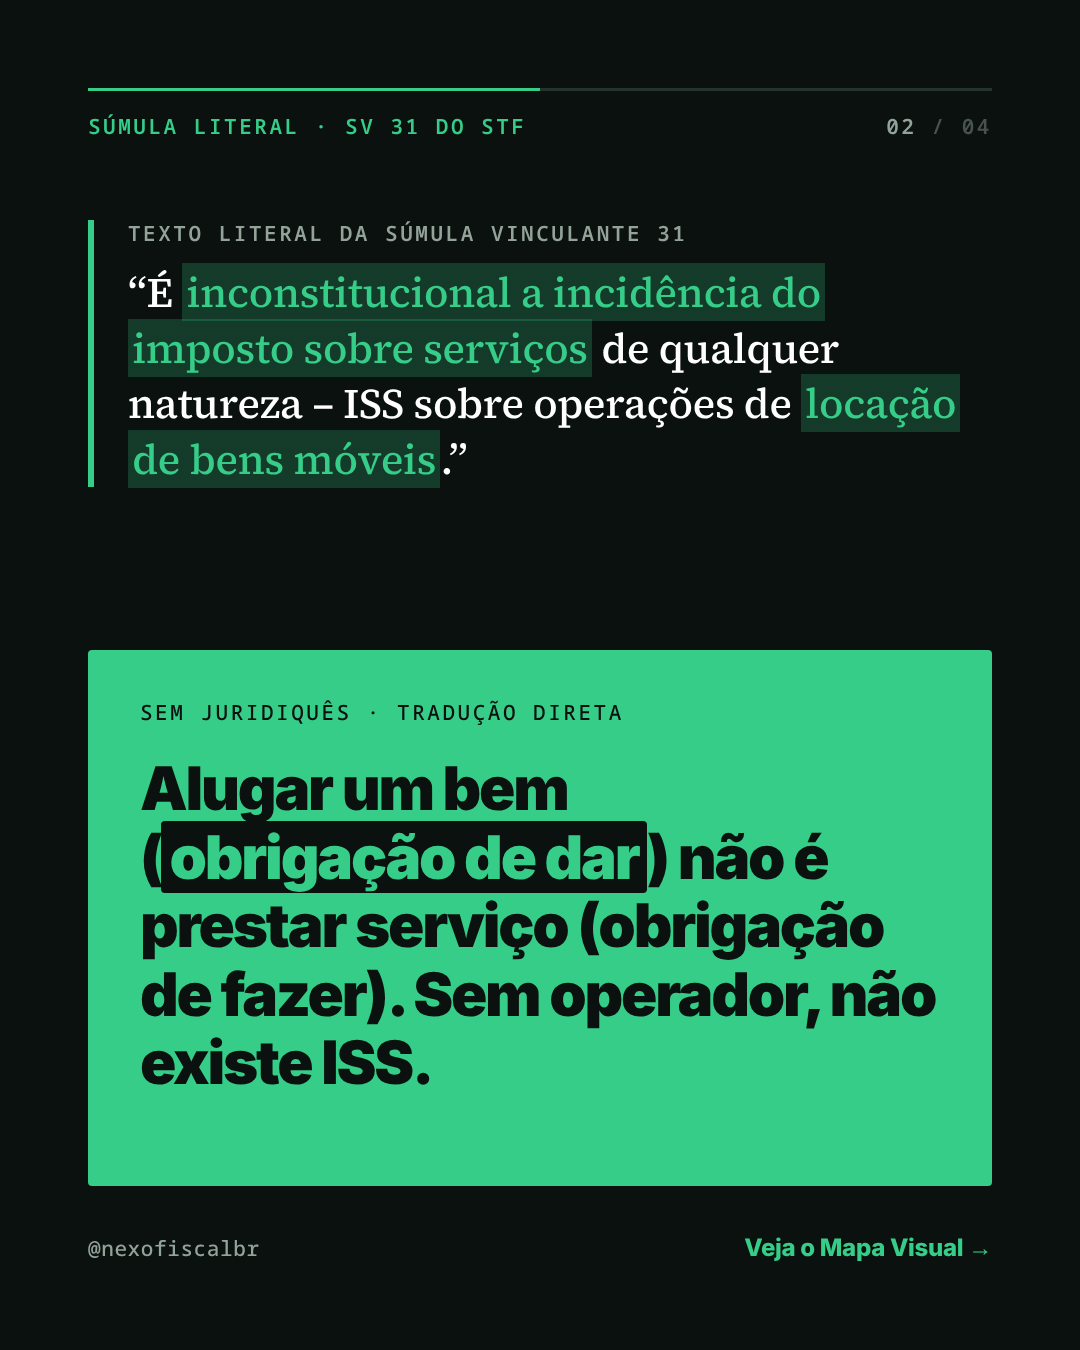
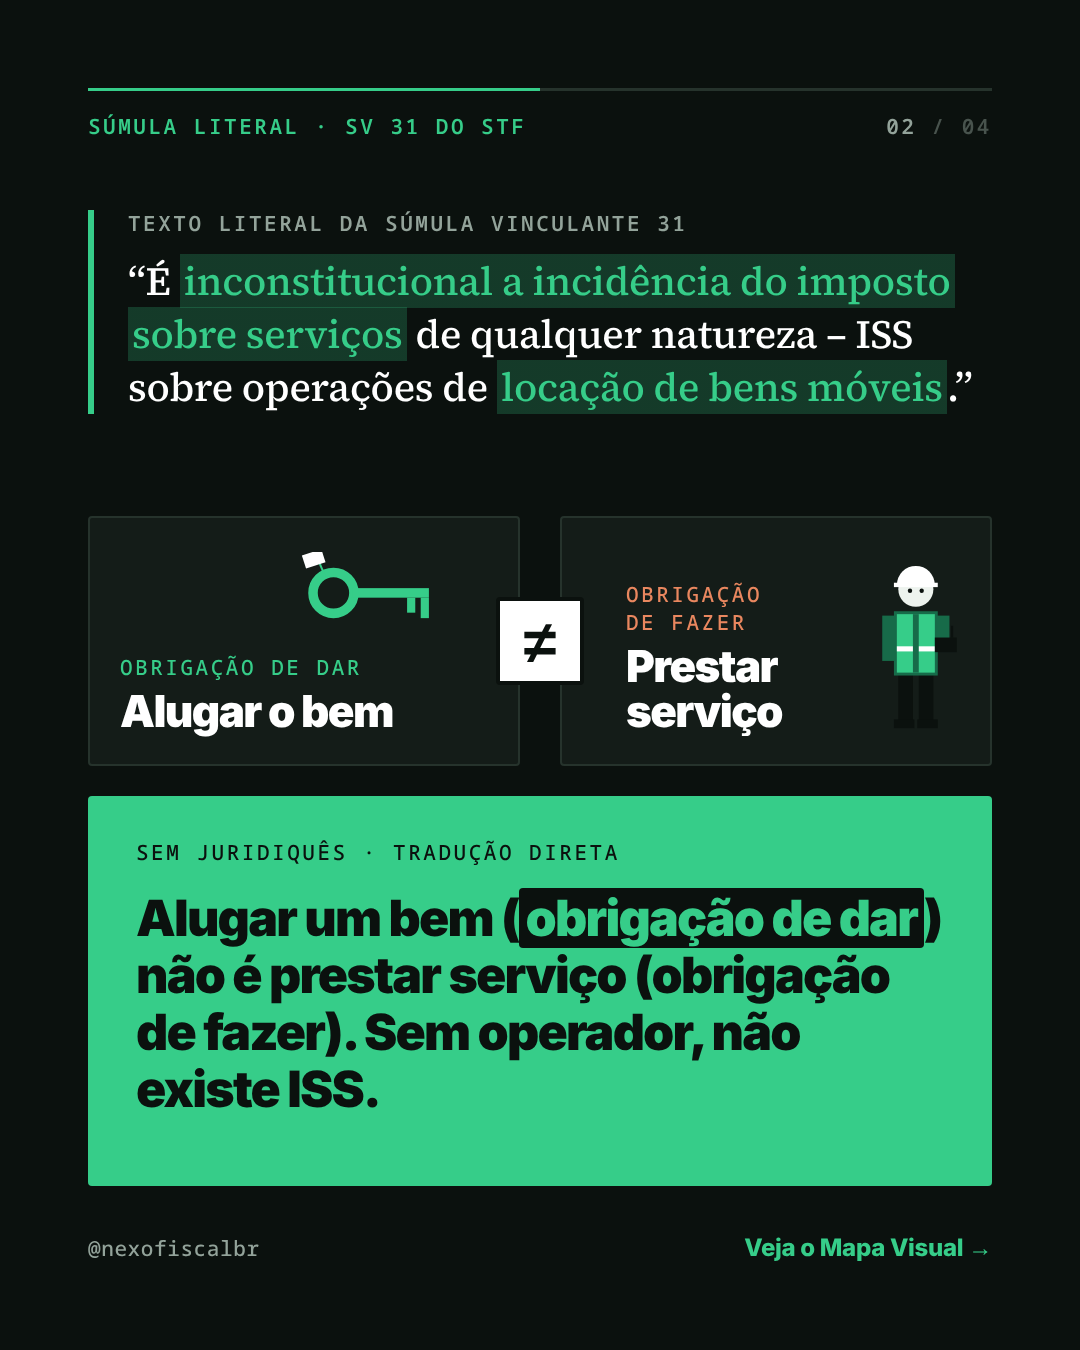
feat(feed): versão final do carrossel SV 31 (direção C) com ilustrações
Guindaste mais detalhado, operador de pé no caso com operador e chave × operador no slide da súmula.

Claude-Session: https://claude.ai/code/session_01Y8eT49Yr3V9k4wYgjhULiZ

Changed region(s): [[0.0611, 0.4044, 0.9167, 0.84], [0.1222, 0.1556, 0.9167, 0.3733], [0.0611, 0.3111, 0.0917, 0.3733]]

diff --git a/src/ds/posts/Sv31Mockups.tsx b/src/ds/posts/Sv31Mockups.tsx
@@ -103,37 +103,91 @@ const Pages: React.FC<{ x: number; y: number; scale?: number; line?: string }> =
 };
 
 type CraneTone = { body: string; boom: string; dark: string; glass: string; operator?: boolean };
-const Crane: React.FC<{ width: number; t: CraneTone }> = ({ width, t }) => (
+
+/** Guindaste sobre caminhão, em blocos planos. `operator` põe alguém na cabine. */
+const Crane: React.FC<{ width: number; t: CraneTone; ground?: boolean }> = ({ width, t, ground }) => (
   <svg width={width} height={(width * 360) / 520} viewBox="0 0 520 360" style={{ display: 'block', overflow: 'visible' }}>
-    <rect x={70} y={276} width={14} height={50} fill={t.dark} />
-    <rect x={56} y={322} width={42} height={10} fill={t.dark} />
-    <rect x={430} y={276} width={14} height={50} fill={t.dark} />
-    <rect x={416} y={322} width={42} height={10} fill={t.dark} />
-    <rect x={40} y={232} width={440} height={50} fill={t.body} />
-    <rect x={376} y={160} width={104} height={74} fill={t.body} />
-    <rect x={392} y={172} width={74} height={42} fill={t.glass} />
+    {ground ? <rect x={-30} y={331} width={580} height={5} fill={t.dark} /> : null}
+    {[70, 430].map((x) => (
+      <g key={x}>
+        <rect x={x} y={272} width={14} height={52} fill={t.dark} />
+        <rect x={x - 14} y={320} width={42} height={11} fill={t.dark} />
+      </g>
+    ))}
+    <rect x={40} y={232} width={440} height={44} fill={t.body} />
+    <rect x={40} y={270} width={440} height={10} fill={t.dark} />
+    <rect x={470} y={250} width={18} height={26} fill={t.dark} />
+    <rect x={376} y={156} width={104} height={78} fill={t.body} />
+    <rect x={372} y={150} width={112} height={10} fill={t.dark} />
+    <rect x={418} y={138} width={22} height={12} fill={C.alertSoft} />
+    <polygon points="392,170 462,170 470,212 392,212" fill={t.glass} />
     {t.operator ? (
       <g>
-        <rect x={418} y={196} width={26} height={18} fill={C.green} />
-        <circle cx={431} cy={186} r={11} fill={C.surface} />
-        <path d="M418 184 a13 13 0 0 1 26 0 Z" fill={C.mint} />
+        <rect x={416} y={198} width={28} height={14} fill={C.green} />
+        <circle cx={430} cy={188} r={11} fill={C.surface} />
+        <path d="M417 186 a13 13 0 0 1 26 0 Z" fill={C.white} />
+        <rect x={414} y={184} width={32} height={4} fill={C.white} />
       </g>
     ) : null}
-    <rect x={120} y={198} width={112} height={34} fill={t.body} />
+    <rect x={392} y={216} width={3} height={18} fill={t.dark} />
+    <rect x={484} y={178} width={7} height={26} fill={t.dark} />
+    <rect x={96} y={188} width={30} height={44} fill={t.dark} />
+    <rect x={118} y={196} width={116} height={36} fill={t.body} />
+    <rect x={118} y={224} width={116} height={6} fill={t.dark} fillOpacity={0.3} />
     <g transform="translate(176 208) rotate(-32)">
-      <rect x={0} y={-15} width={384} height={30} fill={t.boom} />
-      {[40, 100, 160, 220, 280, 340].map((x) => (
-        <path key={x} d={`M${x} -15 l24 30`} stroke={t.dark} strokeOpacity={0.35} strokeWidth={4} />
+      <rect x={0} y={-16} width={230} height={32} fill={t.boom} />
+      <rect x={226} y={-12} width={158} height={24} fill={t.boom} />
+      <rect x={226} y={-16} width={4} height={32} fill={t.dark} fillOpacity={0.5} />
+      {[30, 80, 130, 180, 250, 300, 350].map((x) => (
+        <path key={x} d={`M${x} -12 l22 24`} stroke={t.dark} strokeOpacity={0.35} strokeWidth={4} />
       ))}
     </g>
-    <line x1={494} y1={8} x2={494} y2={120} stroke={t.dark} strokeWidth={4} />
-    <rect x={484} y={120} width={20} height={24} fill={t.dark} />
+    <circle cx={176} cy={208} r={10} fill={t.dark} />
+    <line x1={494} y1={8} x2={494} y2={118} stroke={t.dark} strokeWidth={4} />
+    <rect x={483} y={116} width={22} height={22} fill={t.dark} />
+    <path d="M494 138 v12 a9 9 0 1 1 -9 9" fill="none" stroke={t.dark} strokeWidth={5} />
     {[96, 168, 360, 432].map((cx) => (
       <g key={cx}>
         <circle cx={cx} cy={300} r={30} fill={t.dark} />
-        <circle cx={cx} cy={300} r={11} fill={t.glass} />
+        <circle cx={cx} cy={300} r={13} fill={t.glass} />
+        <circle cx={cx} cy={300} r={4} fill={t.dark} />
       </g>
     ))}
+  </svg>
+);
+
+/** Operador de pé, com capacete, colete e controle remoto. */
+const Operator: React.FC<{ height: number }> = ({ height }) => (
+  <svg width={(height * 120) / 260} height={height} viewBox="0 0 120 260" style={{ display: 'block', overflow: 'visible' }}>
+    <rect x={36} y={172} width={20} height={74} fill={C.ink} />
+    <rect x={64} y={172} width={20} height={74} fill={C.ink} />
+    <rect x={30} y={240} width={28} height={12} fill={C.ink} />
+    <rect x={62} y={240} width={28} height={12} fill={C.ink} />
+    <rect x={30} y={92} width={60} height={88} fill={C.green} />
+    <rect x={34} y={96} width={52} height={80} fill={C.mint} />
+    <rect x={34} y={140} width={52} height={7} fill={C.white} />
+    <rect x={56} y={96} width={8} height={80} fill={C.green} />
+    <rect x={14} y={98} width={18} height={62} fill={C.green} />
+    <rect x={88} y={98} width={18} height={44} fill={C.green} />
+    <rect x={86} y={128} width={30} height={20} fill={C.ink} />
+    <rect x={108} y={112} width={3} height={16} fill={C.ink} />
+    <circle cx={60} cy={62} r={24} fill={C.surface} />
+    <circle cx={52} cy={64} r={3} fill={C.ink} />
+    <circle cx={68} cy={64} r={3} fill={C.ink} />
+    <path d="M34 56 a26 26 0 0 1 52 0 Z" fill={C.white} />
+    <rect x={30} y={53} width={60} height={6} fill={C.white} />
+  </svg>
+);
+
+/** Chave com etiqueta: entregar o bem (obrigação de dar). */
+const KeyArt: React.FC<{ width: number; color: string; tag: string }> = ({ width, color, tag }) => (
+  <svg width={width} height={(width * 120) / 220} viewBox="0 0 220 120" style={{ display: 'block' }}>
+    <circle cx={52} cy={60} r={30} fill="none" stroke={color} strokeWidth={14} />
+    <rect x={80} y={53} width={112} height={14} fill={color} />
+    <rect x={160} y={67} width={12} height={22} fill={color} />
+    <rect x={180} y={67} width={12} height={30} fill={color} />
+    <line x1={40} y1={36} x2={28} y2={8} stroke={color} strokeWidth={3} />
+    <rect x={8} y={0} width={30} height={20} fill={tag} transform="rotate(-18 23 10)" />
   </svg>
 );
 
@@ -441,7 +495,7 @@ const C1: React.FC = () => {
         </Box>
         <Box x={330} y={640} w={520} h={300} style={{ background: C.green, borderRadius: 4 }} />
         <Box x={250} y={470}>
-          <Crane width={600} t={CRANE_LIGHT} />
+          <Crane width={600} ground t={CRANE_LIGHT} />
         </Box>
       </Block>
     </Frame>
@@ -450,17 +504,36 @@ const C1: React.FC = () => {
 
 const C2: React.FC = () => (
   <Frame mode="dark" label={P.law.label} n={2} action={P.law.action}>
-    <Box x={M} y={220} w={W}>
-      <Law source={P.law.source} size={42}>
+    <Box x={M} y={210} w={W}>
+      <Law source={P.law.source} size={40}>
         <LawText />
       </Law>
     </Box>
-    <Block x={M} y={650} w={W} h={536} bg={C.mint} style={{ padding: '48px 52px' }}>
+    <Block x={M} y={516} w={432} h={250} bg={C.inkSoft} style={{ border: `2px solid ${C.lineDark}`, padding: '30px 64px 30px 30px', display: 'flex', justifyContent: 'space-between', alignItems: 'flex-end' }}>
+      <div>
+        <Mono color={C.mint}>{P.law.give.k}</Mono>
+        <div style={{ fontFamily: FONT.sans, fontWeight: 900, fontSize: 44, lineHeight: 1.02, letterSpacing: -1.6, color: C.white, marginTop: 8 }}>{P.law.give.v}</div>
+      </div>
+      <div style={{ position: 'absolute', right: 70, top: 34 }}>
+        <KeyArt width={150} color={C.mint} tag={C.white} />
+      </div>
+    </Block>
+    <Block x={560} y={516} w={432} h={250} bg={C.inkSoft} style={{ border: `2px solid ${C.lineDark}`, padding: '30px 30px 30px 64px', display: 'flex', justifyContent: 'space-between', alignItems: 'flex-end' }}>
+      <div>
+        <Mono color={C.alertSoft}>{P.law.make.k}</Mono>
+        <div style={{ fontFamily: FONT.sans, fontWeight: 900, fontSize: 44, lineHeight: 1.02, letterSpacing: -1.6, color: C.white, marginTop: 8 }}>{P.law.make.v}</div>
+      </div>
+      <Operator height={190} />
+    </Block>
+    <Box x={496} y={597} w={88} h={88} style={{ background: C.white, borderRadius: 4, border: `4px solid ${C.ink}`, display: 'flex', alignItems: 'center', justifyContent: 'center', fontFamily: FONT.sans, fontWeight: 900, fontSize: 60, color: C.ink }}>
+      ≠
+    </Box>
+    <Block x={M} y={796} w={W} h={390} bg={C.mint} style={{ padding: '42px 48px' }}>
       <Mono color={C.ink}>{SV31.plainLabel}</Mono>
-      <div style={{ fontFamily: FONT.sans, fontWeight: 900, fontSize: 60, lineHeight: 1.14, letterSpacing: -2.2, color: C.ink, marginTop: 28 }}>
+      <div style={{ fontFamily: FONT.sans, fontWeight: 900, fontSize: 50, lineHeight: 1.14, letterSpacing: -1.8, color: C.ink, marginTop: 24 }}>
         <Plain
           hl={
-            <Chip bg={C.ink} fg={C.mint} size={60}>
+            <Chip bg={C.ink} fg={C.mint} size={50}>
               {SV31.plain.hl}
             </Chip>
           }
@@ -486,8 +559,15 @@ const C3: React.FC = () => {
         bg={yes ? C.mint : C.inkSoft}
         style={{ border: yes ? undefined : `2px solid ${C.lineDark}`, padding: 34, display: 'flex', flexDirection: 'column', justifyContent: 'space-between' }}
       >
-        <div style={{ flex: 1, display: 'flex', alignItems: 'center' }}>
-          <Crane width={368} t={yes ? { body: C.paper, boom: C.white, dark: C.ink, glass: C.lineDark } : { body: C.mutedDark, boom: C.white, dark: C.ink, glass: C.lineDark, operator: true }} />
+        <div style={{ flex: 1, position: 'relative' }}>
+          <div style={{ position: 'absolute', left: -6, top: 30 }}>
+            <Crane width={330} ground t={yes ? { body: C.paper, boom: C.white, dark: C.ink, glass: C.lineDark } : { body: C.mutedDark, boom: C.white, dark: C.ink, glass: C.lineDark, operator: true }} />
+          </div>
+          {yes ? null : (
+            <div style={{ position: 'absolute', right: -4, top: 128 }}>
+              <Operator height={200} />
+            </div>
+          )}
         </div>
         <div>
           <Mono color={fg}>{s.kicker}</Mono>
@@ -514,7 +594,7 @@ const C3: React.FC = () => {
       </Box>
       {panel('left')}
       {panel('right')}
-      <Box x={496} y={566} w={88} h={88} style={{ background: C.white, borderRadius: 4, display: 'flex', alignItems: 'center', justifyContent: 'center', border: `4px solid ${C.ink}` }}>
+      <Box x={496} y={760} w={88} h={88} style={{ background: C.white, borderRadius: 4, display: 'flex', alignItems: 'center', justifyContent: 'center', border: `4px solid ${C.ink}` }}>
         <Mark2 kind="no" color={C.ink} size={56} />
       </Box>
     </Frame>

diff --git a/src/ds/copy.ts b/src/ds/copy.ts
@@ -388,7 +388,13 @@ export const SV31_POST = {
     q: 'ISS?',
     action: 'Veja a Súmula e o Mapa →',
   },
-  law: { label: 'Súmula literal · SV 31 do STF', source: 'Texto literal da Súmula Vinculante 31', action: 'Veja o Mapa Visual →' },
+  law: {
+    label: 'Súmula literal · SV 31 do STF',
+    source: 'Texto literal da Súmula Vinculante 31',
+    give: { k: 'Obrigação de dar', v: 'Alugar o bem' },
+    make: { k: 'Obrigação de\u00a0fazer', v: 'Prestar serviço' },
+    action: 'Veja o Mapa Visual →',
+  },
   map: {
     label: 'Mapa visual · Súmula Vinculante 31',
     kicker: 'Contrato de locação móvel',

diff --git a/docs/roteiros/carrossel-sv31-mockups.md b/docs/roteiros/carrossel-sv31-mockups.md
@@ -1,5 +1,7 @@
 # Carrossel SV 31 · três direções visuais
 
+**Escolhida: direção C (Recorte).** Versão final em `exports/feed/DS-SV31-01C-capa.png` … `DS-SV31-04C-material.png`, prancha em `DS-SV31-MOCKUP-C.png`.
+
 Mesmo carrossel de 4 slides (capa, súmula literal, mapa visual, material), com o texto do post publicado e o literal da Súmula Vinculante 31, em três composições inspiradas nas referências enviadas. Tudo dentro do sistema: só cores dos tokens, cantos até 4 px, sem degradê nem sombra, Inter/Noto Sans Mono/Source Serif 4 (serifa só no texto da súmula).
 
 | Direção | Ideia | Traço da referência que foi traduzido |
@@ -9,6 +11,17 @@ Mesmo carrossel de 4 slides (capa, súmula literal, mapa visual, material), com 
 | C · Recorte | Verde-destaque contra preto, guindaste recortado, “×” entre os dois casos | Contraste verde × preto, objeto recortado sobre bloco, “×” do comparativo |
 
 Arquivos em `exports/feed/`: slides `DS-SV31-0{1-4}{A|B|C}-*.png` (1080 × 1350) e pranchas `DS-SV31-MOCKUP-{A|B|C}.png` (post no feed + os 4 slides). Código em `src/ds/posts/Sv31Mockups.tsx`; texto em `SV31_POST` e `SV31` (`src/ds/copy.ts`).
+
+## Versão final (C)
+
+| Slide | Ilustração |
+|---|---|
+| 01 Capa | Guindaste sobre caminhão recortado num bloco verde, sobre o painel verde-destaque |
+| 02 Súmula | Chave com etiqueta (“Obrigação de dar · Alugar o bem”) ≠ operador de capacete e colete (“Obrigação de fazer · Prestar serviço”), acima da tradução |
+| 03 Mapa | Mesmo guindaste nos dois casos: cabine vazia (locação pura) × operador na cabine e outro de pé com o controle (com operador) |
+| 04 Material | Duas páginas esquemáticas saindo de um recorte preto |
+
+As ilustrações estão em `Crane`, `Operator` e `KeyArt` (`src/ds/posts/Sv31Mockups.tsx`): blocos planos, só cores dos tokens, sem sombra nem degradê. Reaproveite em outros posts de ISS e locação.
 
 ## Decisões
 
